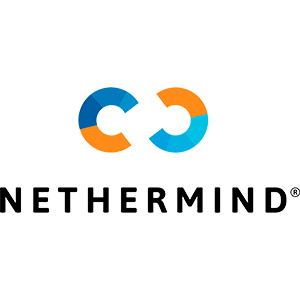
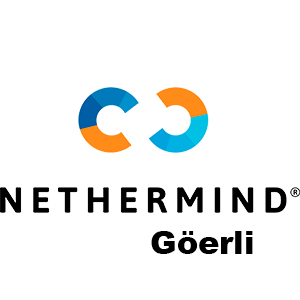
add goerli overlay uniform getting started

Changed region(s): [[0.48, 0.75, 0.87, 0.87]]

diff --git a/getting-started.md b/getting-started.md
@@ -1,10 +1,10 @@
-Goerli Nethermind (Execution Client)
+## Goerli Nethermind (Execution Client)
 
-Goerli is now ready for the merge!
+Welcome to your Merged Goerli/Prater Nethermind Execution Layer Client
 
 There are now two RPC APIs in Execution Clients:
 
 1. Querying API `http://nethermind-goerli.dappnode:8545`. Use this endpoint to query transactions on your node and connect to it with your web3 wallet.
 2. Engine API `http://nethermind-goerli.dappnode:8551`. Use this endpoint to connect your Beacon Chain (Consensus Layer) client.
 
-After the merge, if your Execution Client is not connected to a Consensus Layer client, you won't be able to use it to query the blockchain, nor will you be able to connect your wallet to it!
+If your Execution Client is not connected to a Consensus Layer client, you won't be able to keep it synced, nor use it to query the blockchain, nor will you be able to connect your wallet to it!
